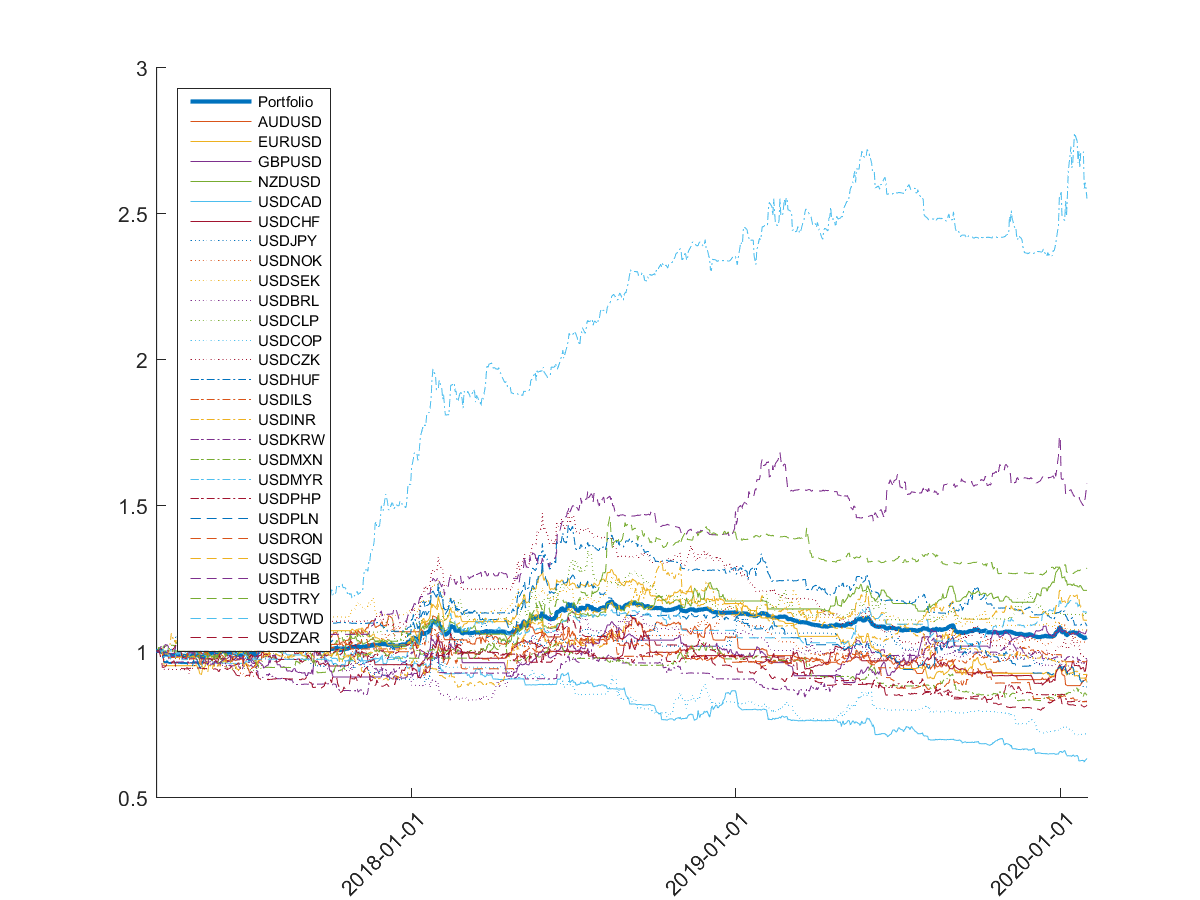
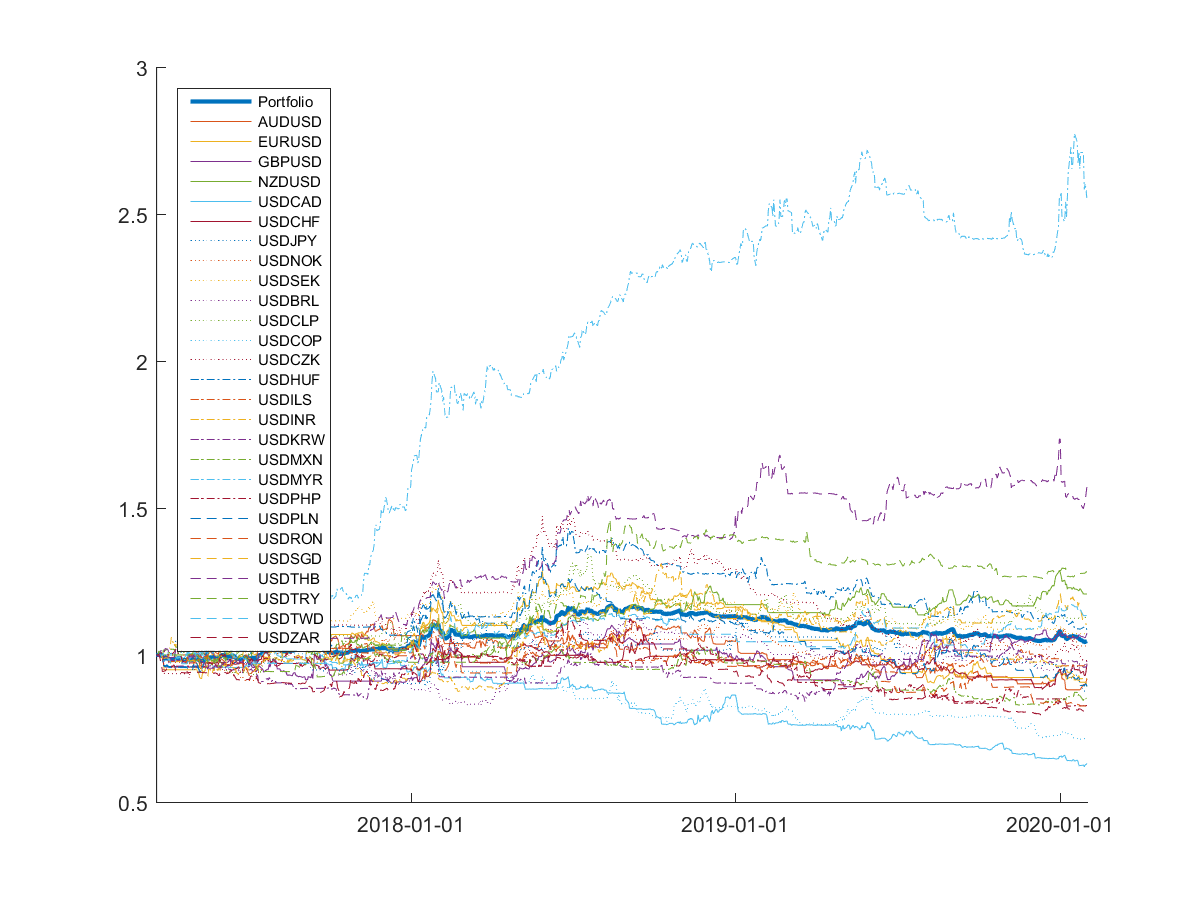
add figure

diff --git a/MATLAB_Quant_book/Chapter 13/plot_pnl.m b/MATLAB_Quant_book/Chapter 13/plot_pnl.m
@@ -16,13 +16,12 @@ legend(['Portfolio', legend_dollar],'FontSize',7, 'Location','northwest');
 datetick('x', 'yyyy-mm-dd', 'keeplimits');
 xlim([value_portfolio.date(1) value_portfolio.date(end)])
 ax = gca;
-ax.XTickLabelRotation = 45;
 ax.ColorOrder = [1 0.5 0; 0.5 0 1; 0 0.5 0.3];
 ax.LineStyleOrder = {'-','--',':'};
 set(gcf, 'Position',  [100, 100, 1200, 600])
 
 data_path = 'C:\Users\tsunh\Documents\GitHub\MATLAB-Quantitative-Finance\MATLAB_Quant_book\Chapter 13\data\';
-output_name = sprintf('figures\\pnl_%d_%d_%d_%d_%d_%d.png',...
+output_name = sprintf('figures\\pnl_20200304_%d_%d_%d_%d_%d_%d.png',...
     volatility_smoothing, sys1_open, sys1_close, sys2_open, sys2_close, period);
 saveas(ax, [data_path,output_name]);
 % fig.PaperPositionMode = 'auto';
